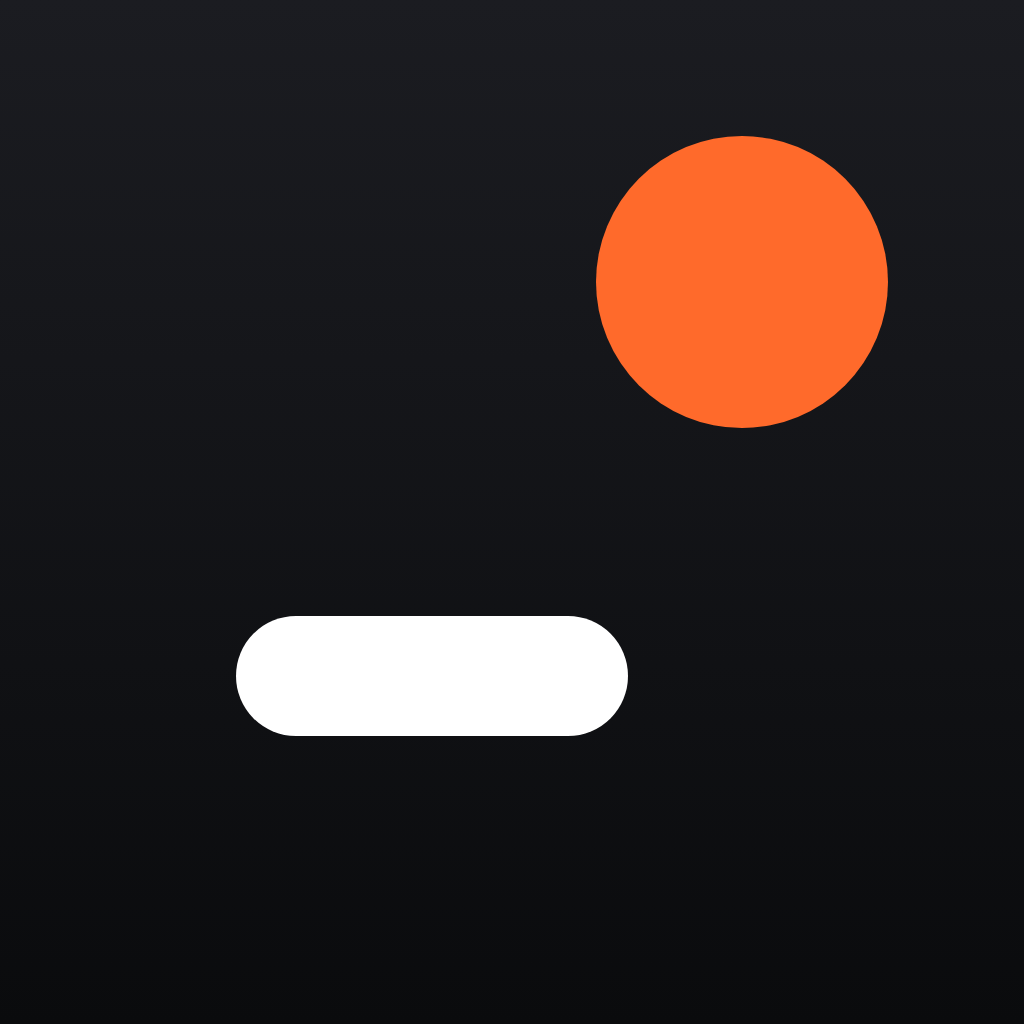
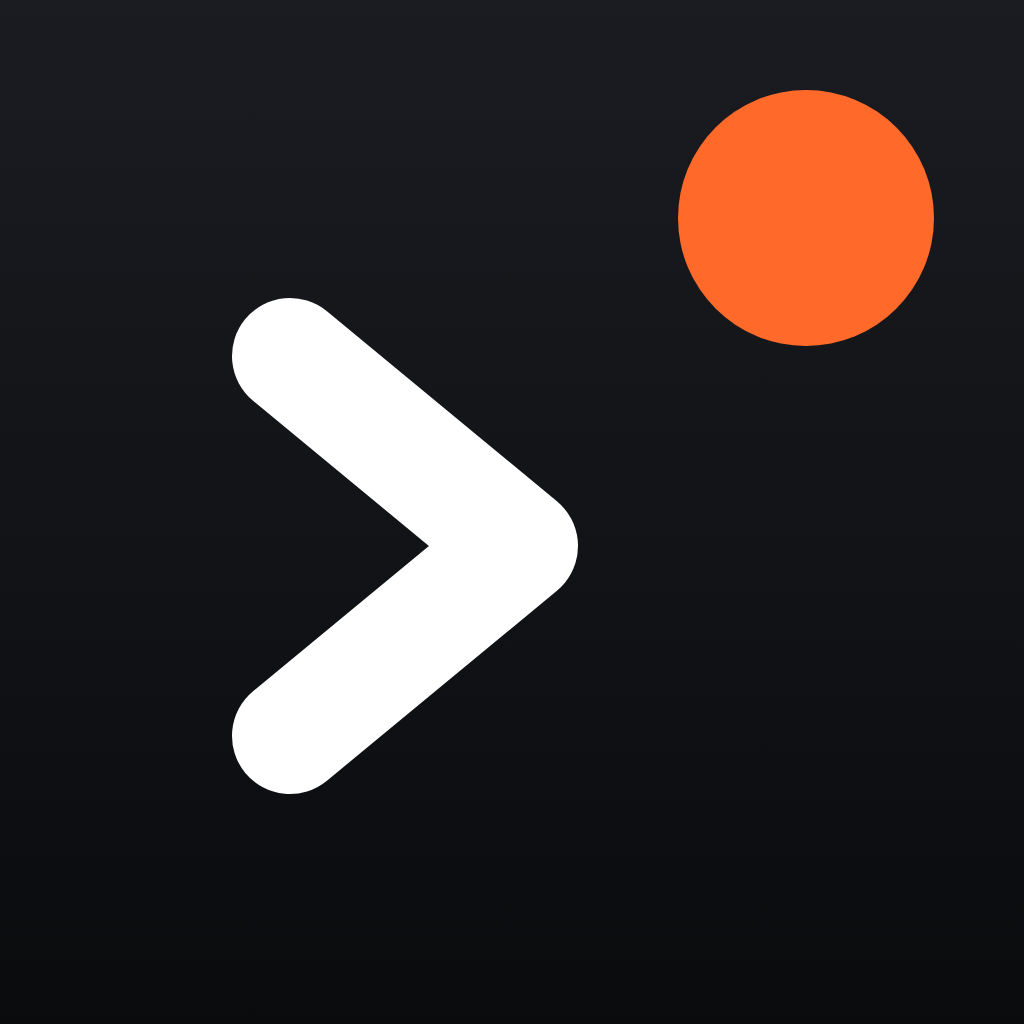
Use a ">" prompt in the mark
- Replace the dash with a ">" in the app icon, adaptive icon, splash and favicon
- Move the iOS badge closer to the top-right corner
- Draw the in-app mark with the same prompt

Changed region(s): [[0.2188, 0.2812, 0.625, 0.7812], [0.5625, 0.0625, 0.9375, 0.4375]]

diff --git a/mobile/components/BrandMark.tsx b/mobile/components/BrandMark.tsx
@@ -1,12 +1,13 @@
 import { StyleSheet, Text, View } from "react-native";
+import Svg, { Path } from "react-native-svg";
 
 import { useStyles, useTheme } from "../lib/appearance";
 import { font, Palette } from "../lib/theme";
 
 /**
- * The mark: a terminal with a notification waiting on it, which is the whole
- * product in one shape. Drawn from views so it is crisp at any size and takes
- * the theme's ink.
+ * The mark: a terminal prompt with a notification waiting on it, which is the
+ * whole product in one shape. Drawn rather than bundled as an image, so it is
+ * crisp at any size and takes the theme's ink.
  */
 export function BrandMark({
   size = 26,
@@ -29,17 +30,16 @@ export function BrandMark({
       }}
       accessible={false}
     >
-      <View
-        style={{
-          position: "absolute",
-          left: Math.round(size * 0.26),
-          bottom: Math.round(size * 0.27),
-          width: Math.round(size * 0.36),
-          height: Math.max(2, Math.round(size * 0.11)),
-          borderRadius: size,
-          backgroundColor: color.onInverse,
-        }}
-      />
+      <Svg width={size} height={size} viewBox="0 0 100 100">
+        <Path
+          d="M31 32.5 L55 51.25 L31 70"
+          fill="none"
+          stroke={color.onInverse}
+          strokeWidth={12}
+          strokeLinecap="round"
+          strokeLinejoin="round"
+        />
+      </Svg>
       <View
         style={{
           position: "absolute",
